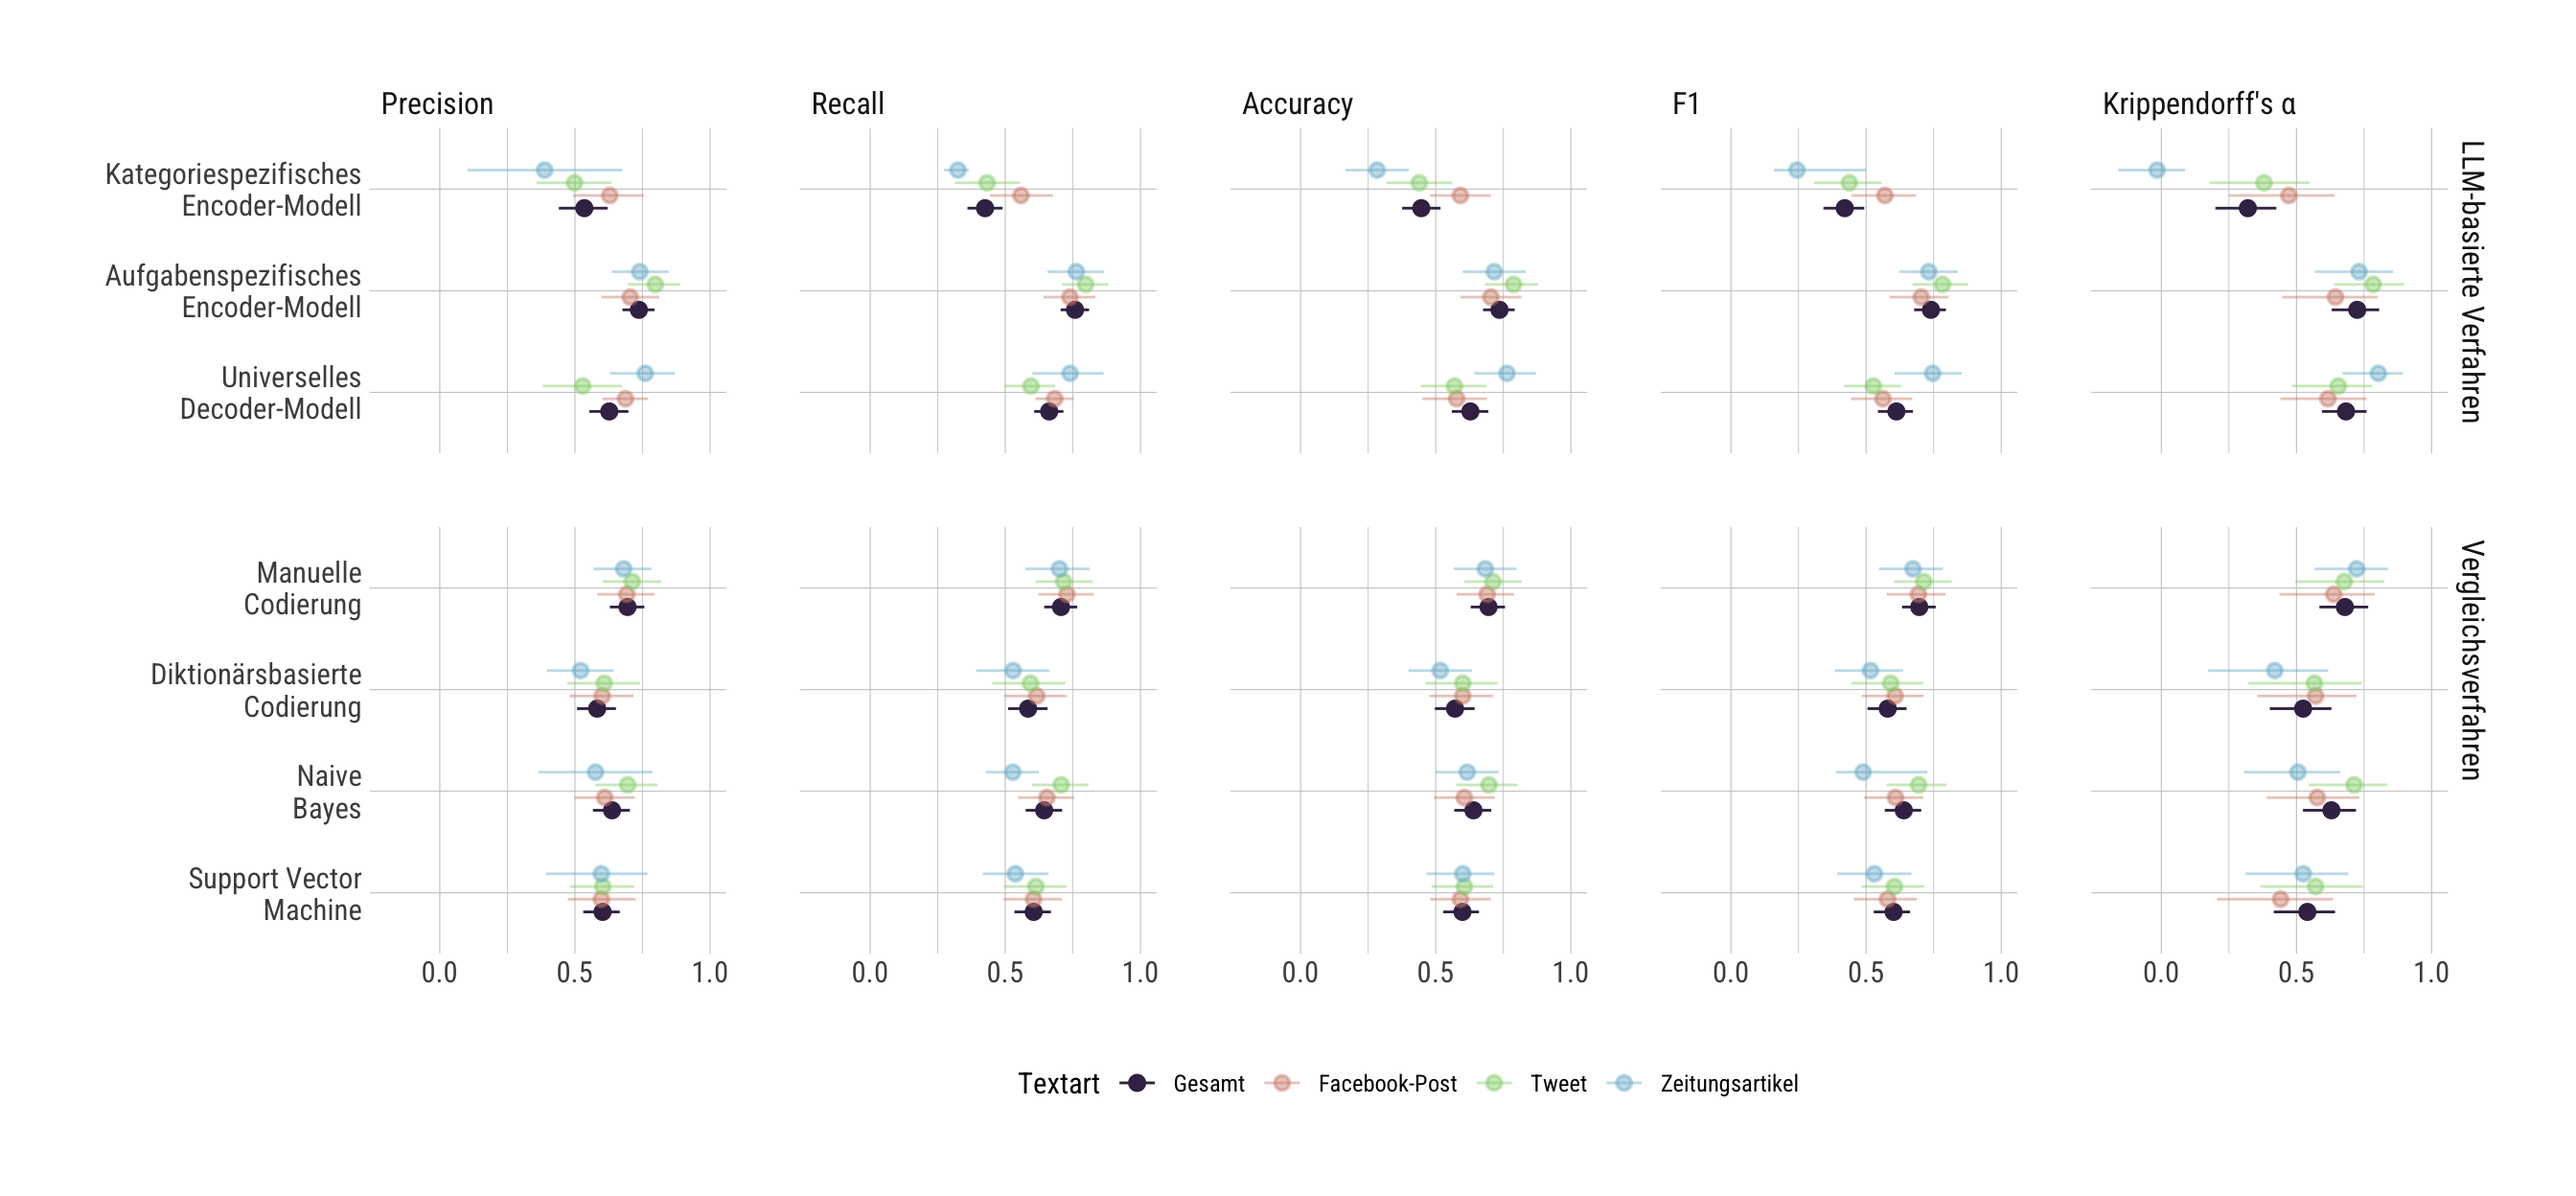
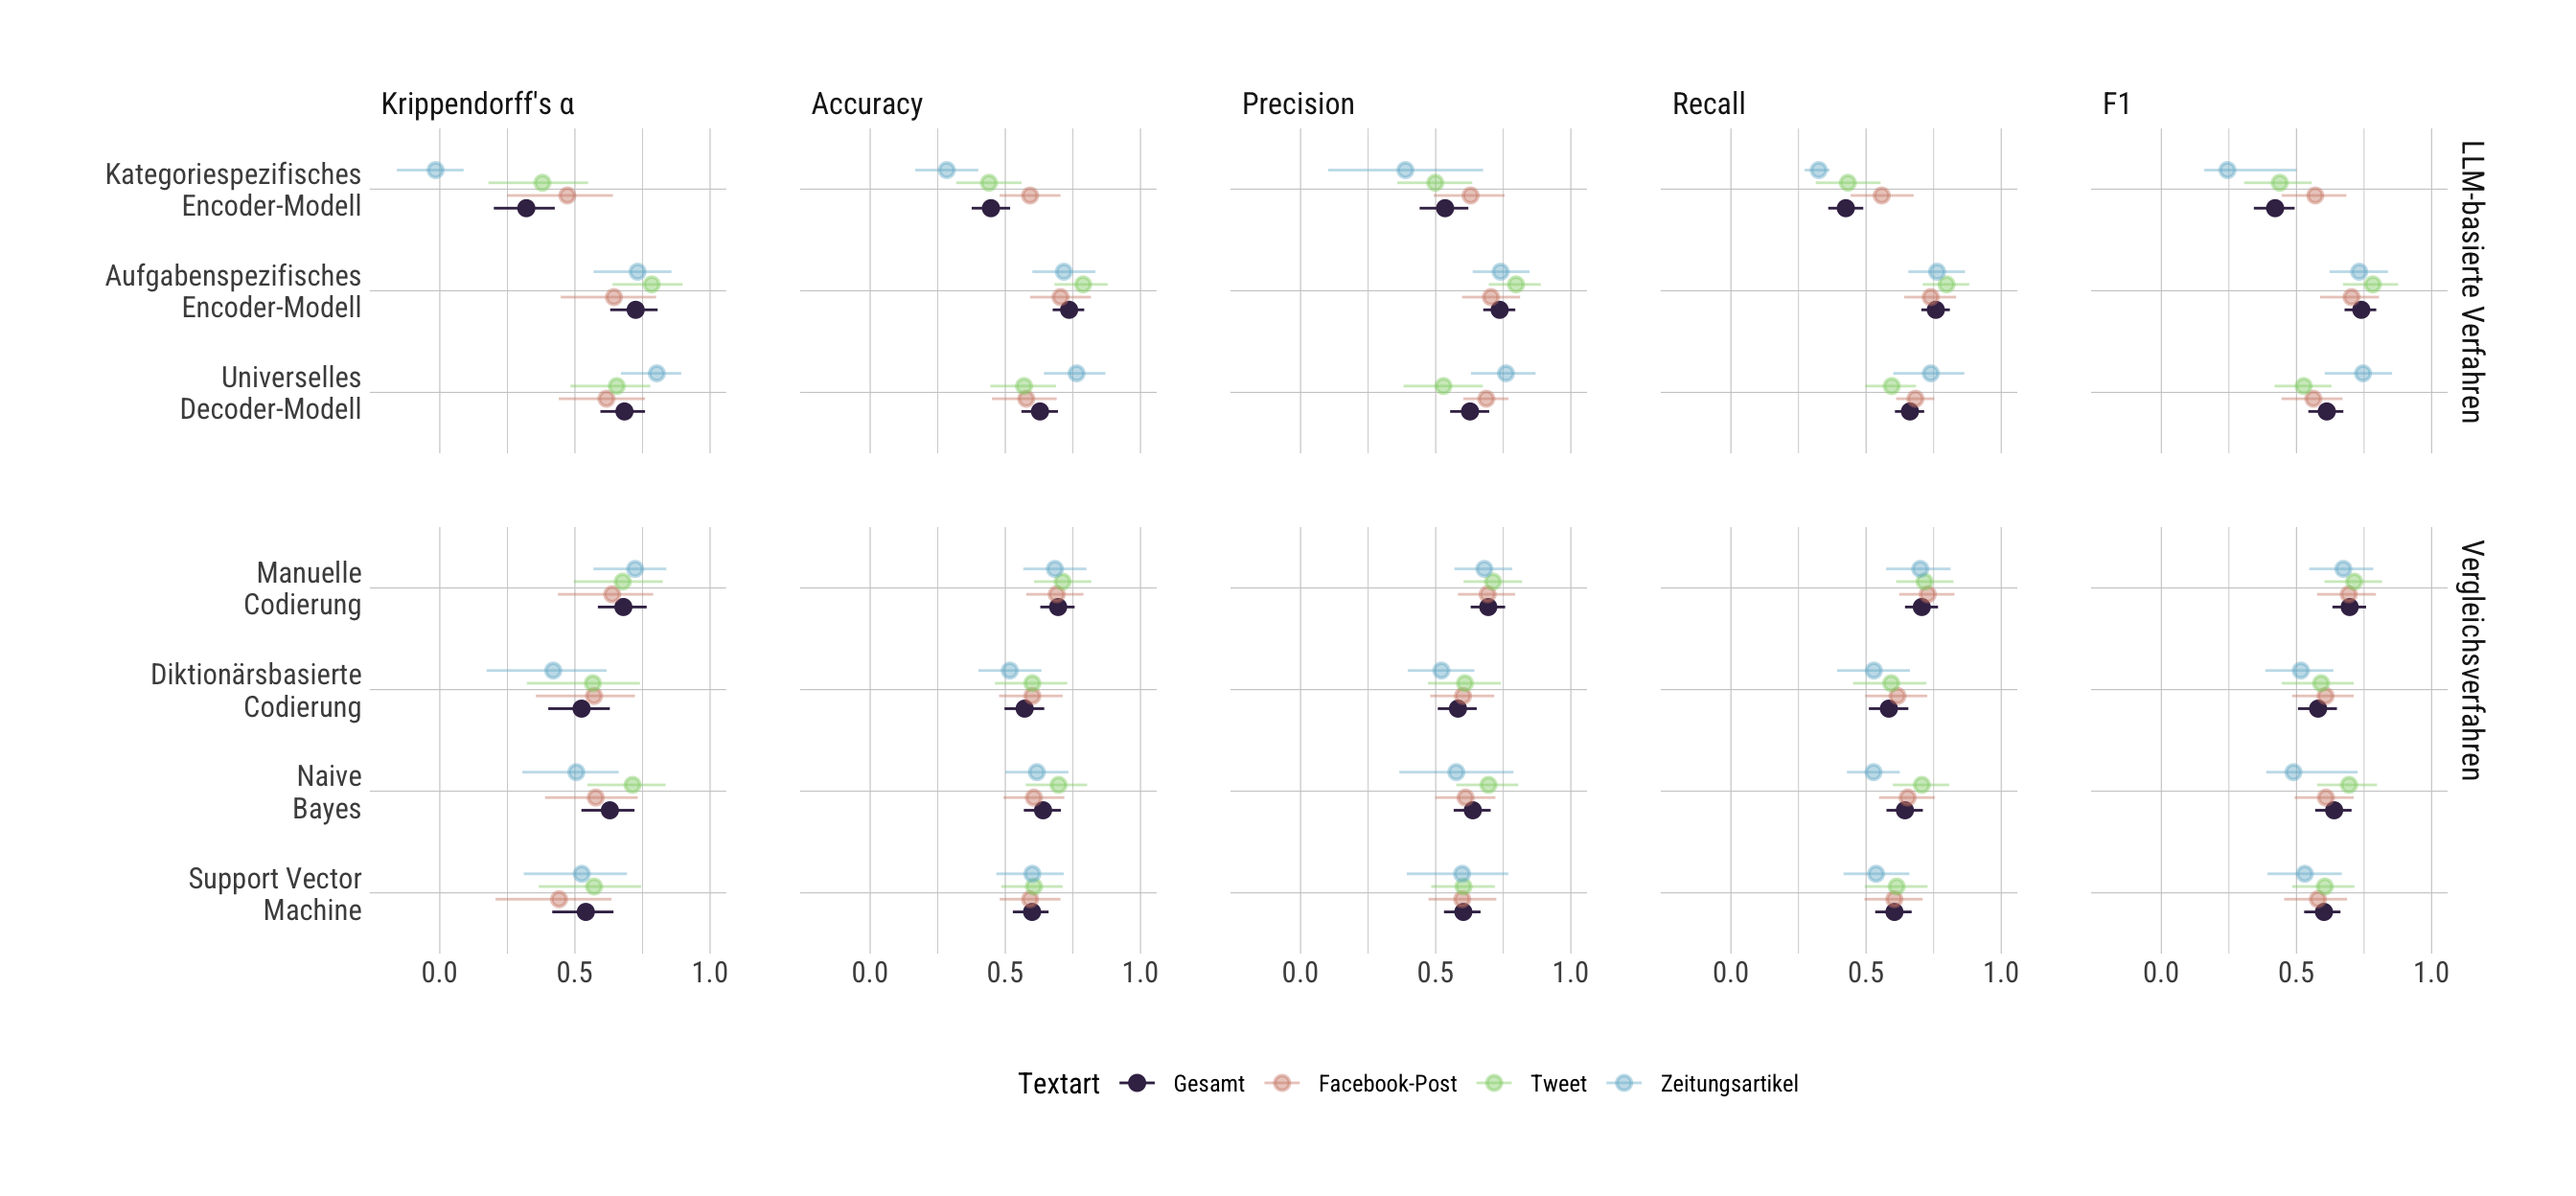
Built site for gh-pages

diff --git a/beispielstudie/07_validierung.html b/beispielstudie/07_validierung.html
@@ -758,14 +758,14 @@ pre > code.sourceCode > span > a:first-child::before { text-decoration: underlin
 <span id="annotated-cell-3-68"><a href="#annotated-cell-3-68" aria-hidden="true" tabindex="-1"></a>      <span class="fu">str_to_title</span>() <span class="sc">|&gt;</span></span>
 <span id="annotated-cell-3-69"><a href="#annotated-cell-3-69" aria-hidden="true" tabindex="-1"></a>      <span class="fu">str_replace</span>(<span class="st">"Alpha"</span>, <span class="st">"α"</span>) <span class="sc">|&gt;</span></span>
 <span id="annotated-cell-3-70"><a href="#annotated-cell-3-70" aria-hidden="true" tabindex="-1"></a>      <span class="fu">as_factor</span>() <span class="sc">|&gt;</span></span>
-<span id="annotated-cell-3-71"><a href="#annotated-cell-3-71" aria-hidden="true" tabindex="-1"></a>      <span class="fu">fct_relevel</span>(<span class="st">"Precision"</span>, <span class="st">"Recall"</span>, <span class="st">"Accuracy"</span>, <span class="st">"F1"</span>, <span class="st">"Krippendorff's α"</span>),</span>
+<span id="annotated-cell-3-71"><a href="#annotated-cell-3-71" aria-hidden="true" tabindex="-1"></a>      <span class="fu">fct_relevel</span>(<span class="st">"Krippendorff's α"</span>, <span class="st">"Accuracy"</span>, <span class="st">"Precision"</span>, <span class="st">"Recall"</span>, <span class="st">"F1"</span>,),</span>
 <span id="annotated-cell-3-72"><a href="#annotated-cell-3-72" aria-hidden="true" tabindex="-1"></a>  ) <span class="sc">|&gt;</span></span>
 <span id="annotated-cell-3-73"><a href="#annotated-cell-3-73" aria-hidden="true" tabindex="-1"></a>  <span class="fu">ggplot</span>(<span class="fu">aes</span>(</span>
 <span id="annotated-cell-3-74"><a href="#annotated-cell-3-74" aria-hidden="true" tabindex="-1"></a>    <span class="at">x =</span> point,</span>
 <span id="annotated-cell-3-75"><a href="#annotated-cell-3-75" aria-hidden="true" tabindex="-1"></a>    <span class="at">xmin =</span> lower,</span>
 <span id="annotated-cell-3-76"><a href="#annotated-cell-3-76" aria-hidden="true" tabindex="-1"></a>    <span class="at">xmax =</span> upper,</span>
 <span id="annotated-cell-3-77"><a href="#annotated-cell-3-77" aria-hidden="true" tabindex="-1"></a>    <span class="at">y =</span> Methode,</span>
-<span id="annotated-cell-3-78"><a href="#annotated-cell-3-78" aria-hidden="true" tabindex="-1"></a>    <span class="at">color =</span> Textart</span>
+<span id="annotated-cell-3-78"><a href="#annotated-cell-3-78" aria-hidden="true" tabindex="-1"></a>    <span class="at">color =</span> Textart,</span>
 <span id="annotated-cell-3-79"><a href="#annotated-cell-3-79" aria-hidden="true" tabindex="-1"></a>  )) <span class="sc">+</span></span>
 <span id="annotated-cell-3-80"><a href="#annotated-cell-3-80" aria-hidden="true" tabindex="-1"></a>  <span class="fu">geom_pointrange</span>(<span class="at">position =</span> <span class="fu">position_dodge</span>(.<span class="dv">5</span>)) <span class="sc">+</span></span>
 <span id="annotated-cell-3-81"><a href="#annotated-cell-3-81" aria-hidden="true" tabindex="-1"></a>  <span class="fu">scale_x_continuous</span>(</span>

diff --git a/beispielstudie/07_validierung_kategoriespezifisches_Encoder-Modell.html b/beispielstudie/07_validierung_kategoriespezifisches_Encoder-Modell.html
@@ -659,7 +659,7 @@ pre > code.sourceCode > span > a:first-child::before { text-decoration: underlin
 <span id="annotated-cell-3-59"><a href="#annotated-cell-3-59" aria-hidden="true" tabindex="-1"></a>      <span class="fu">str_to_title</span>() <span class="sc">|&gt;</span></span>
 <span id="annotated-cell-3-60"><a href="#annotated-cell-3-60" aria-hidden="true" tabindex="-1"></a>      <span class="fu">str_replace</span>(<span class="st">"Alpha"</span>, <span class="st">"α"</span>) <span class="sc">|&gt;</span></span>
 <span id="annotated-cell-3-61"><a href="#annotated-cell-3-61" aria-hidden="true" tabindex="-1"></a>      <span class="fu">as_factor</span>() <span class="sc">|&gt;</span></span>
-<span id="annotated-cell-3-62"><a href="#annotated-cell-3-62" aria-hidden="true" tabindex="-1"></a>      <span class="fu">fct_relevel</span>(<span class="st">"Precision"</span>, <span class="st">"Recall"</span>, <span class="st">"Accuracy"</span>, <span class="st">"F1"</span>, <span class="st">"Krippendorff's α"</span>),</span>
+<span id="annotated-cell-3-62"><a href="#annotated-cell-3-62" aria-hidden="true" tabindex="-1"></a>      <span class="fu">fct_relevel</span>(<span class="st">"Krippendorff's α"</span>, <span class="st">"Accuracy"</span>, <span class="st">"Precision"</span>, <span class="st">"Recall"</span>, <span class="st">"F1"</span>),</span>
 <span id="annotated-cell-3-63"><a href="#annotated-cell-3-63" aria-hidden="true" tabindex="-1"></a>  ) <span class="sc">|&gt;</span></span>
 <span id="annotated-cell-3-64"><a href="#annotated-cell-3-64" aria-hidden="true" tabindex="-1"></a>  <span class="fu">ggplot</span>(<span class="fu">aes</span>(</span>
 <span id="annotated-cell-3-65"><a href="#annotated-cell-3-65" aria-hidden="true" tabindex="-1"></a>    <span class="at">x =</span> point,</span>
